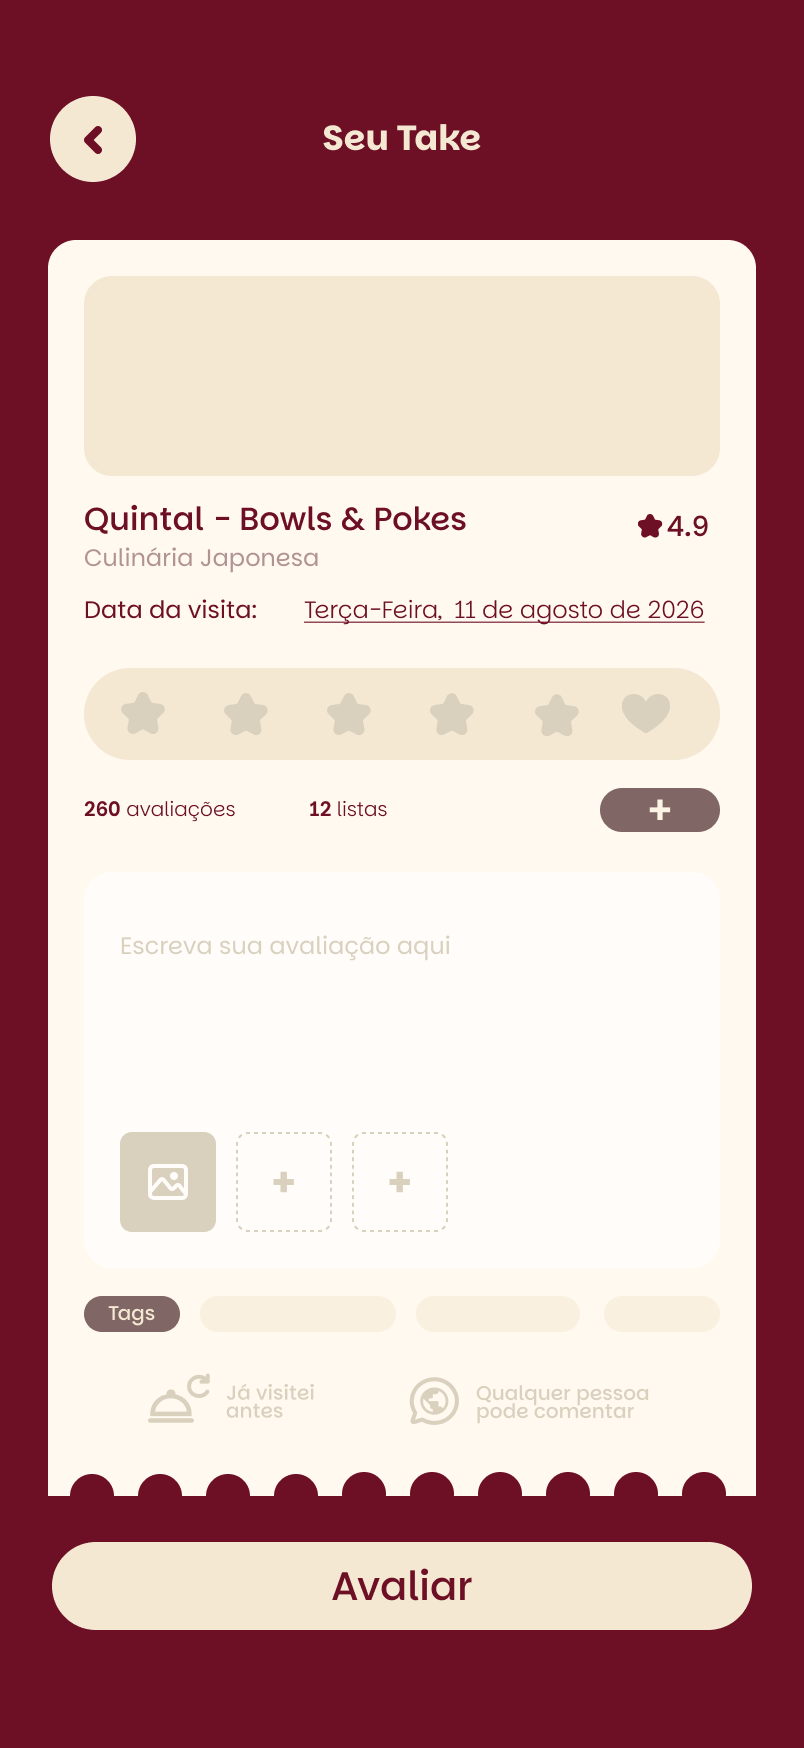
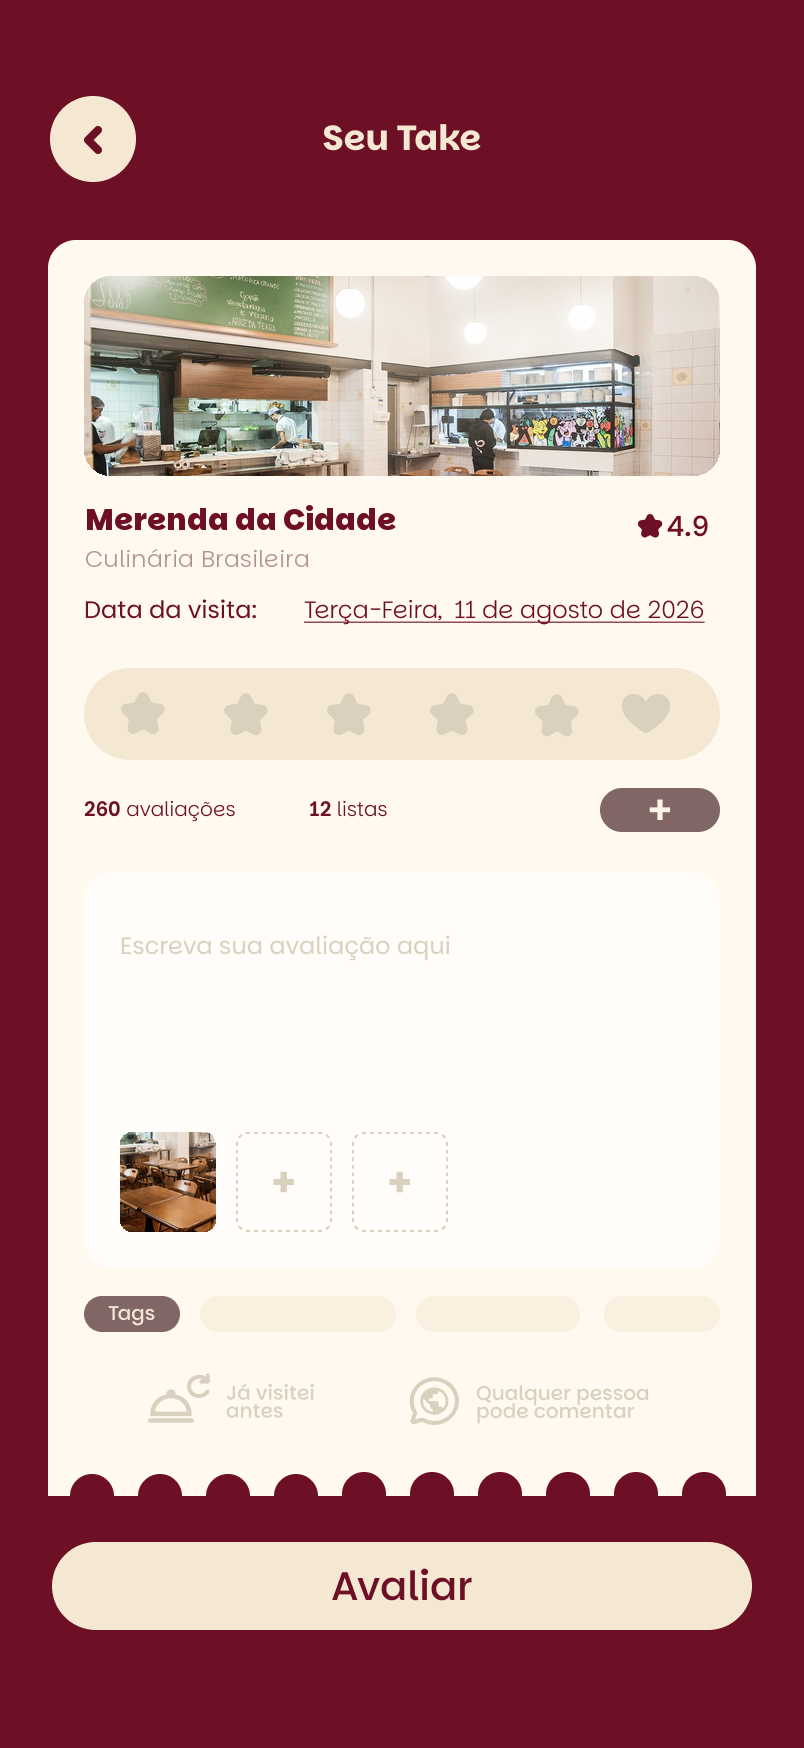
feat: perfil é da Júlia e o take é do Merenda da Cidade
- perfil.png: "Fulano Torres" vira "Júlia" nas duas ocorrências — o título e
  o card de atividade recente
- avaliacao.png: o restaurante vira Merenda da Cidade, culinária brasileira,
  com o salão na capa e as mesas na foto anexada ao take. Os dois
  placeholders vazios saíram

Os textos foram reescritos em Parkinsans, a fonte do próprio design (a mesma
que o app carrega), nos pesos e tamanhos medidos pixel a pixel do PNG
original: SemiBold 39 no nome do perfil, ExtraBold 30 no nome do restaurante,
Light 24 na linha de culinária.

Foto do restaurante: Rogério Gomes / Divulgação, via Exame — creditada no
README. O export original do Figma segue intocado no repo do produto.

Changed region(s): [[0.0933, 0.1545, 0.9017, 0.3398], [0.1244, 0.6487, 0.2799, 0.7105]]

diff --git a/README.md b/README.md
@@ -34,7 +34,17 @@ no meio não obriga a renumerar os outros na mão.
 - `julia-v2.png` — retrato anterior da persona, sem uso hoje.
 - `qr-yotakes.png` — QR do roadmap e do último slide, apontando para a produção.
 - `telas/` — prints das telas do app no Figma (feed, avaliação, perfil, descoberta),
-  usados dentro da moldura de celular nos slides de produto.
+  usados dentro da moldura de celular nos slides de produto. Duas delas foram editadas
+  depois do export: `perfil.png` (o nome do perfil virou "Júlia", a persona do deck) e
+  `avaliacao.png` (o restaurante virou Merenda da Cidade e as duas fotos foram
+  preenchidas). Os textos foram reescritos em **Parkinsans** — a mesma fonte do design,
+  a mesma que o app carrega em `web/src/app/layout.tsx` — nos pesos e tamanhos medidos
+  do próprio PNG. O export original e intocado continua em
+  `yotakes/docs/figma/telas/` no repositório do produto.
+
+  Foto do Merenda da Cidade: **Rogério Gomes / Divulgação**, publicada pela Exame. É
+  material de divulgação usado aqui em contexto acadêmico — se o deck virar peça
+  comercial, trocar por foto própria ou licenciada.
 
 Fontes (Inter + Unbounded) vêm do Google Fonts. Paleta: tomate `#e84b3f`,
 garrafa `#1f4d40`, bordô `#5f1b1f`, creme `#f2ead7`.
